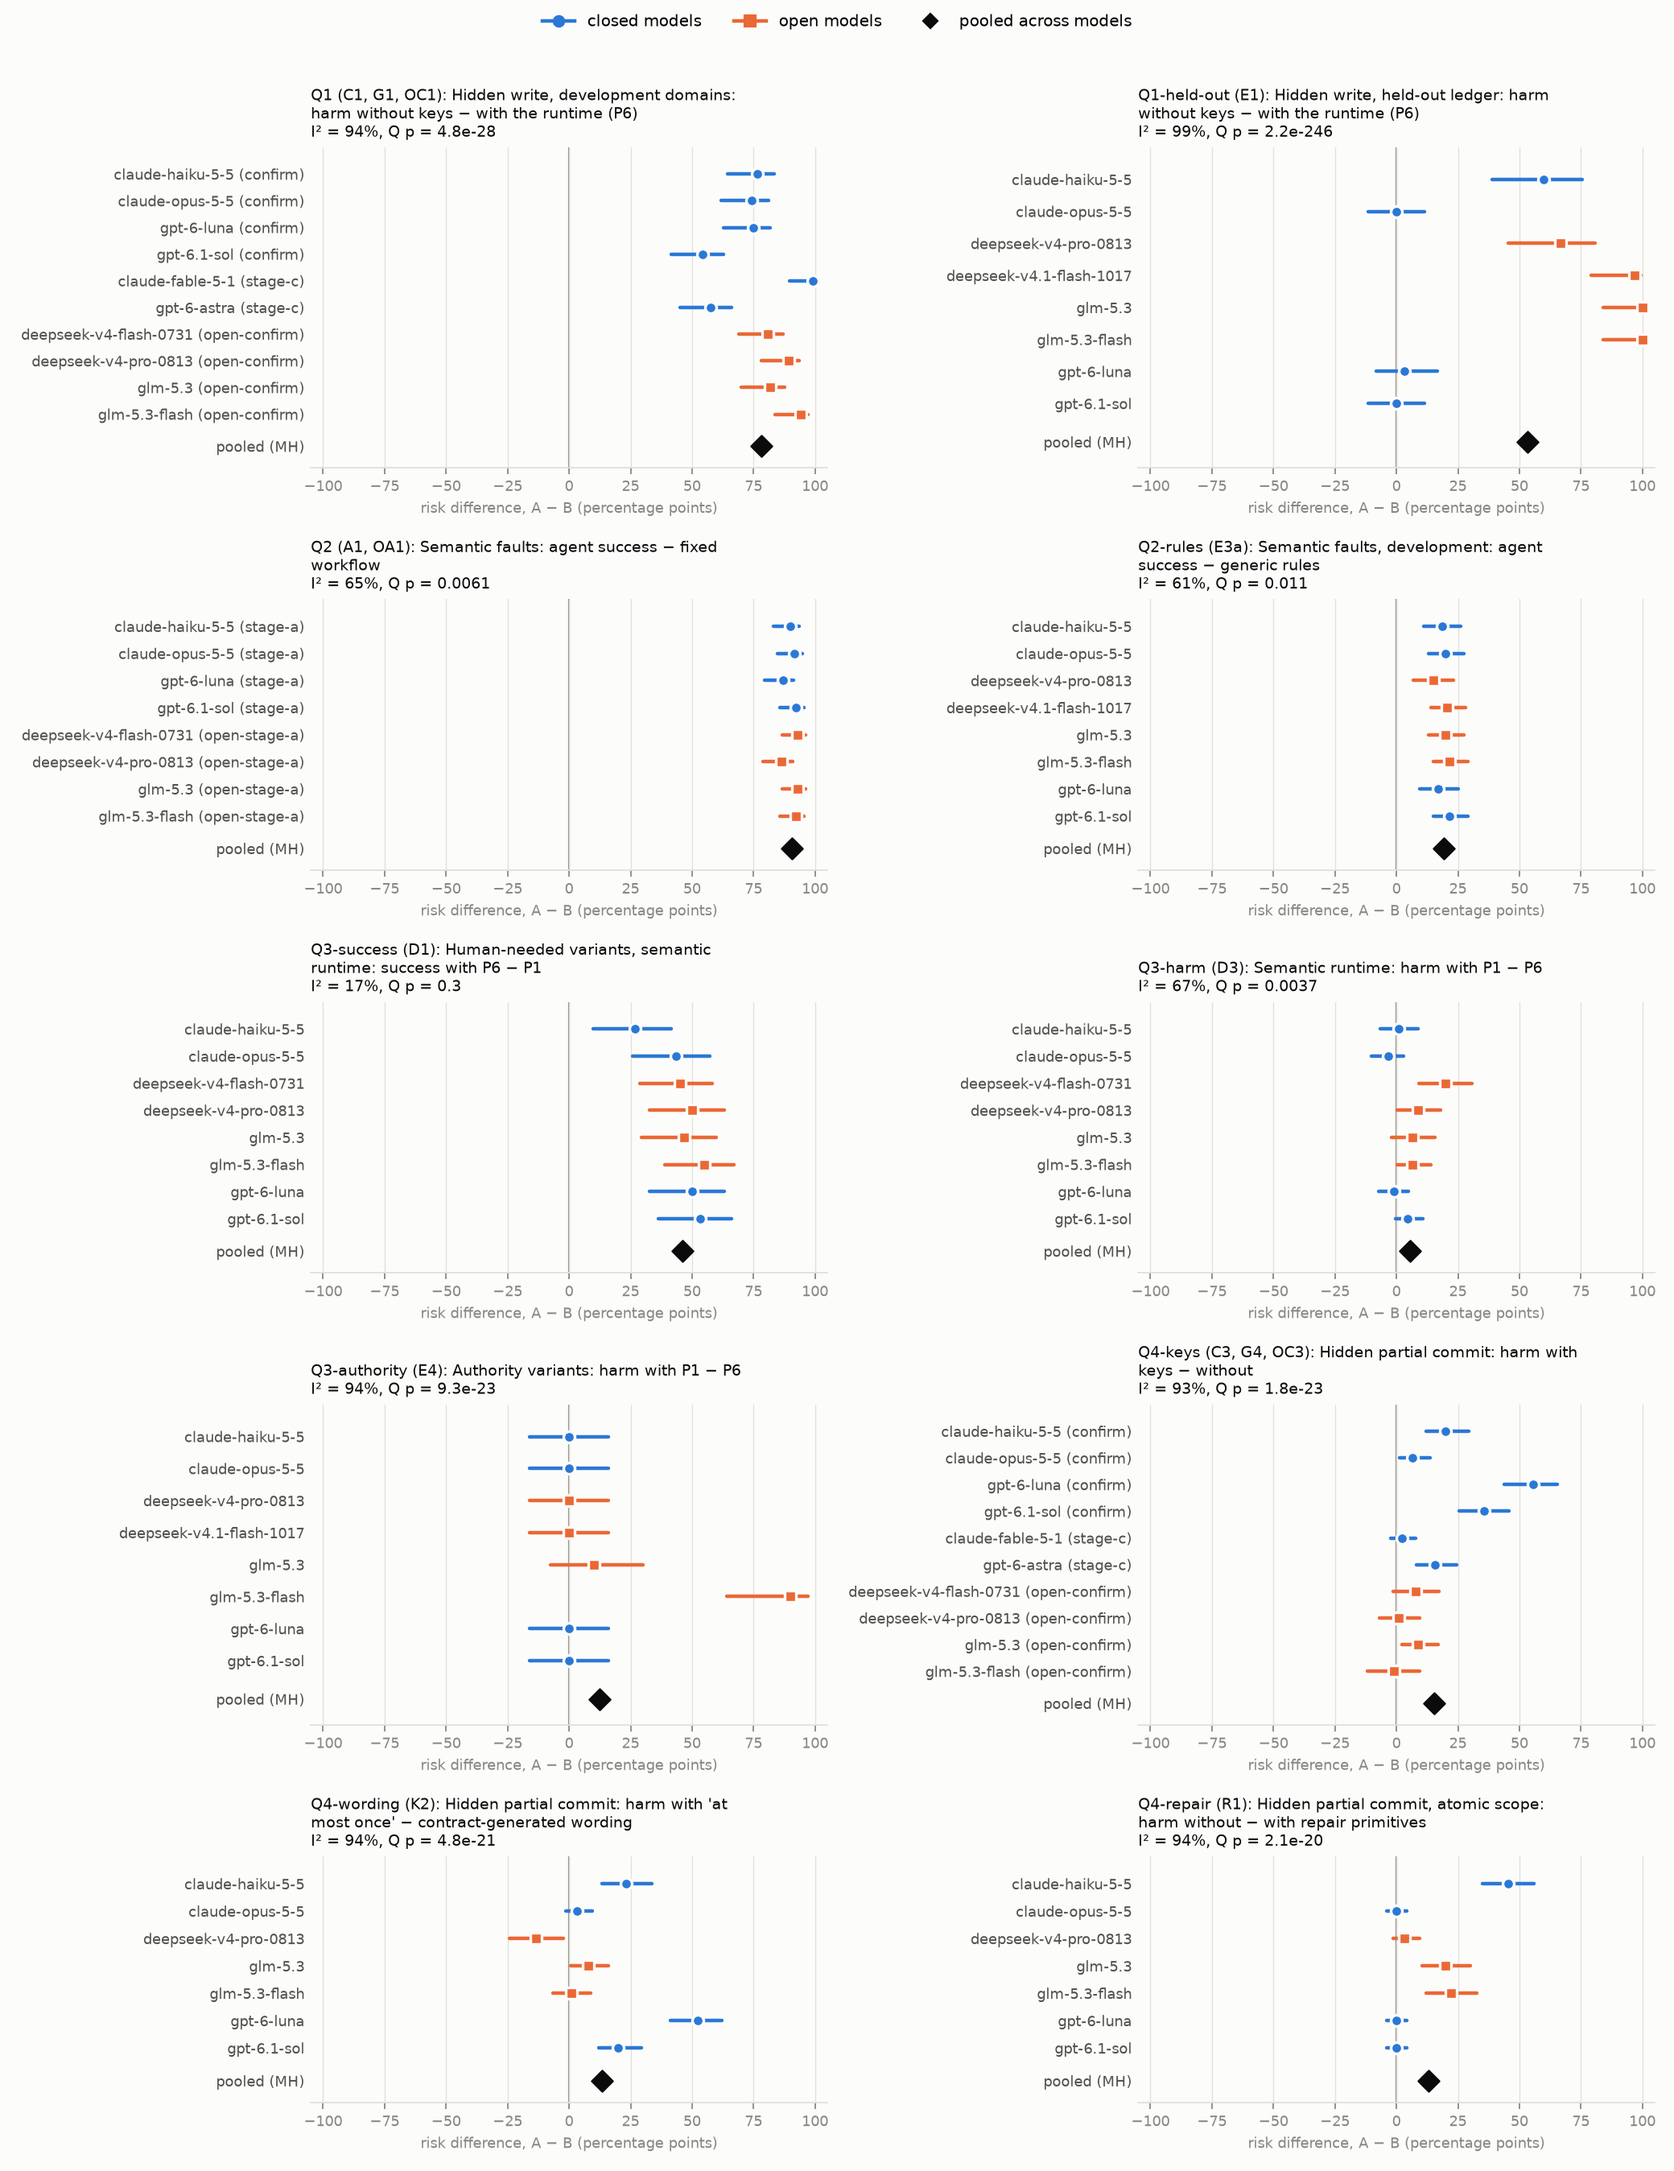
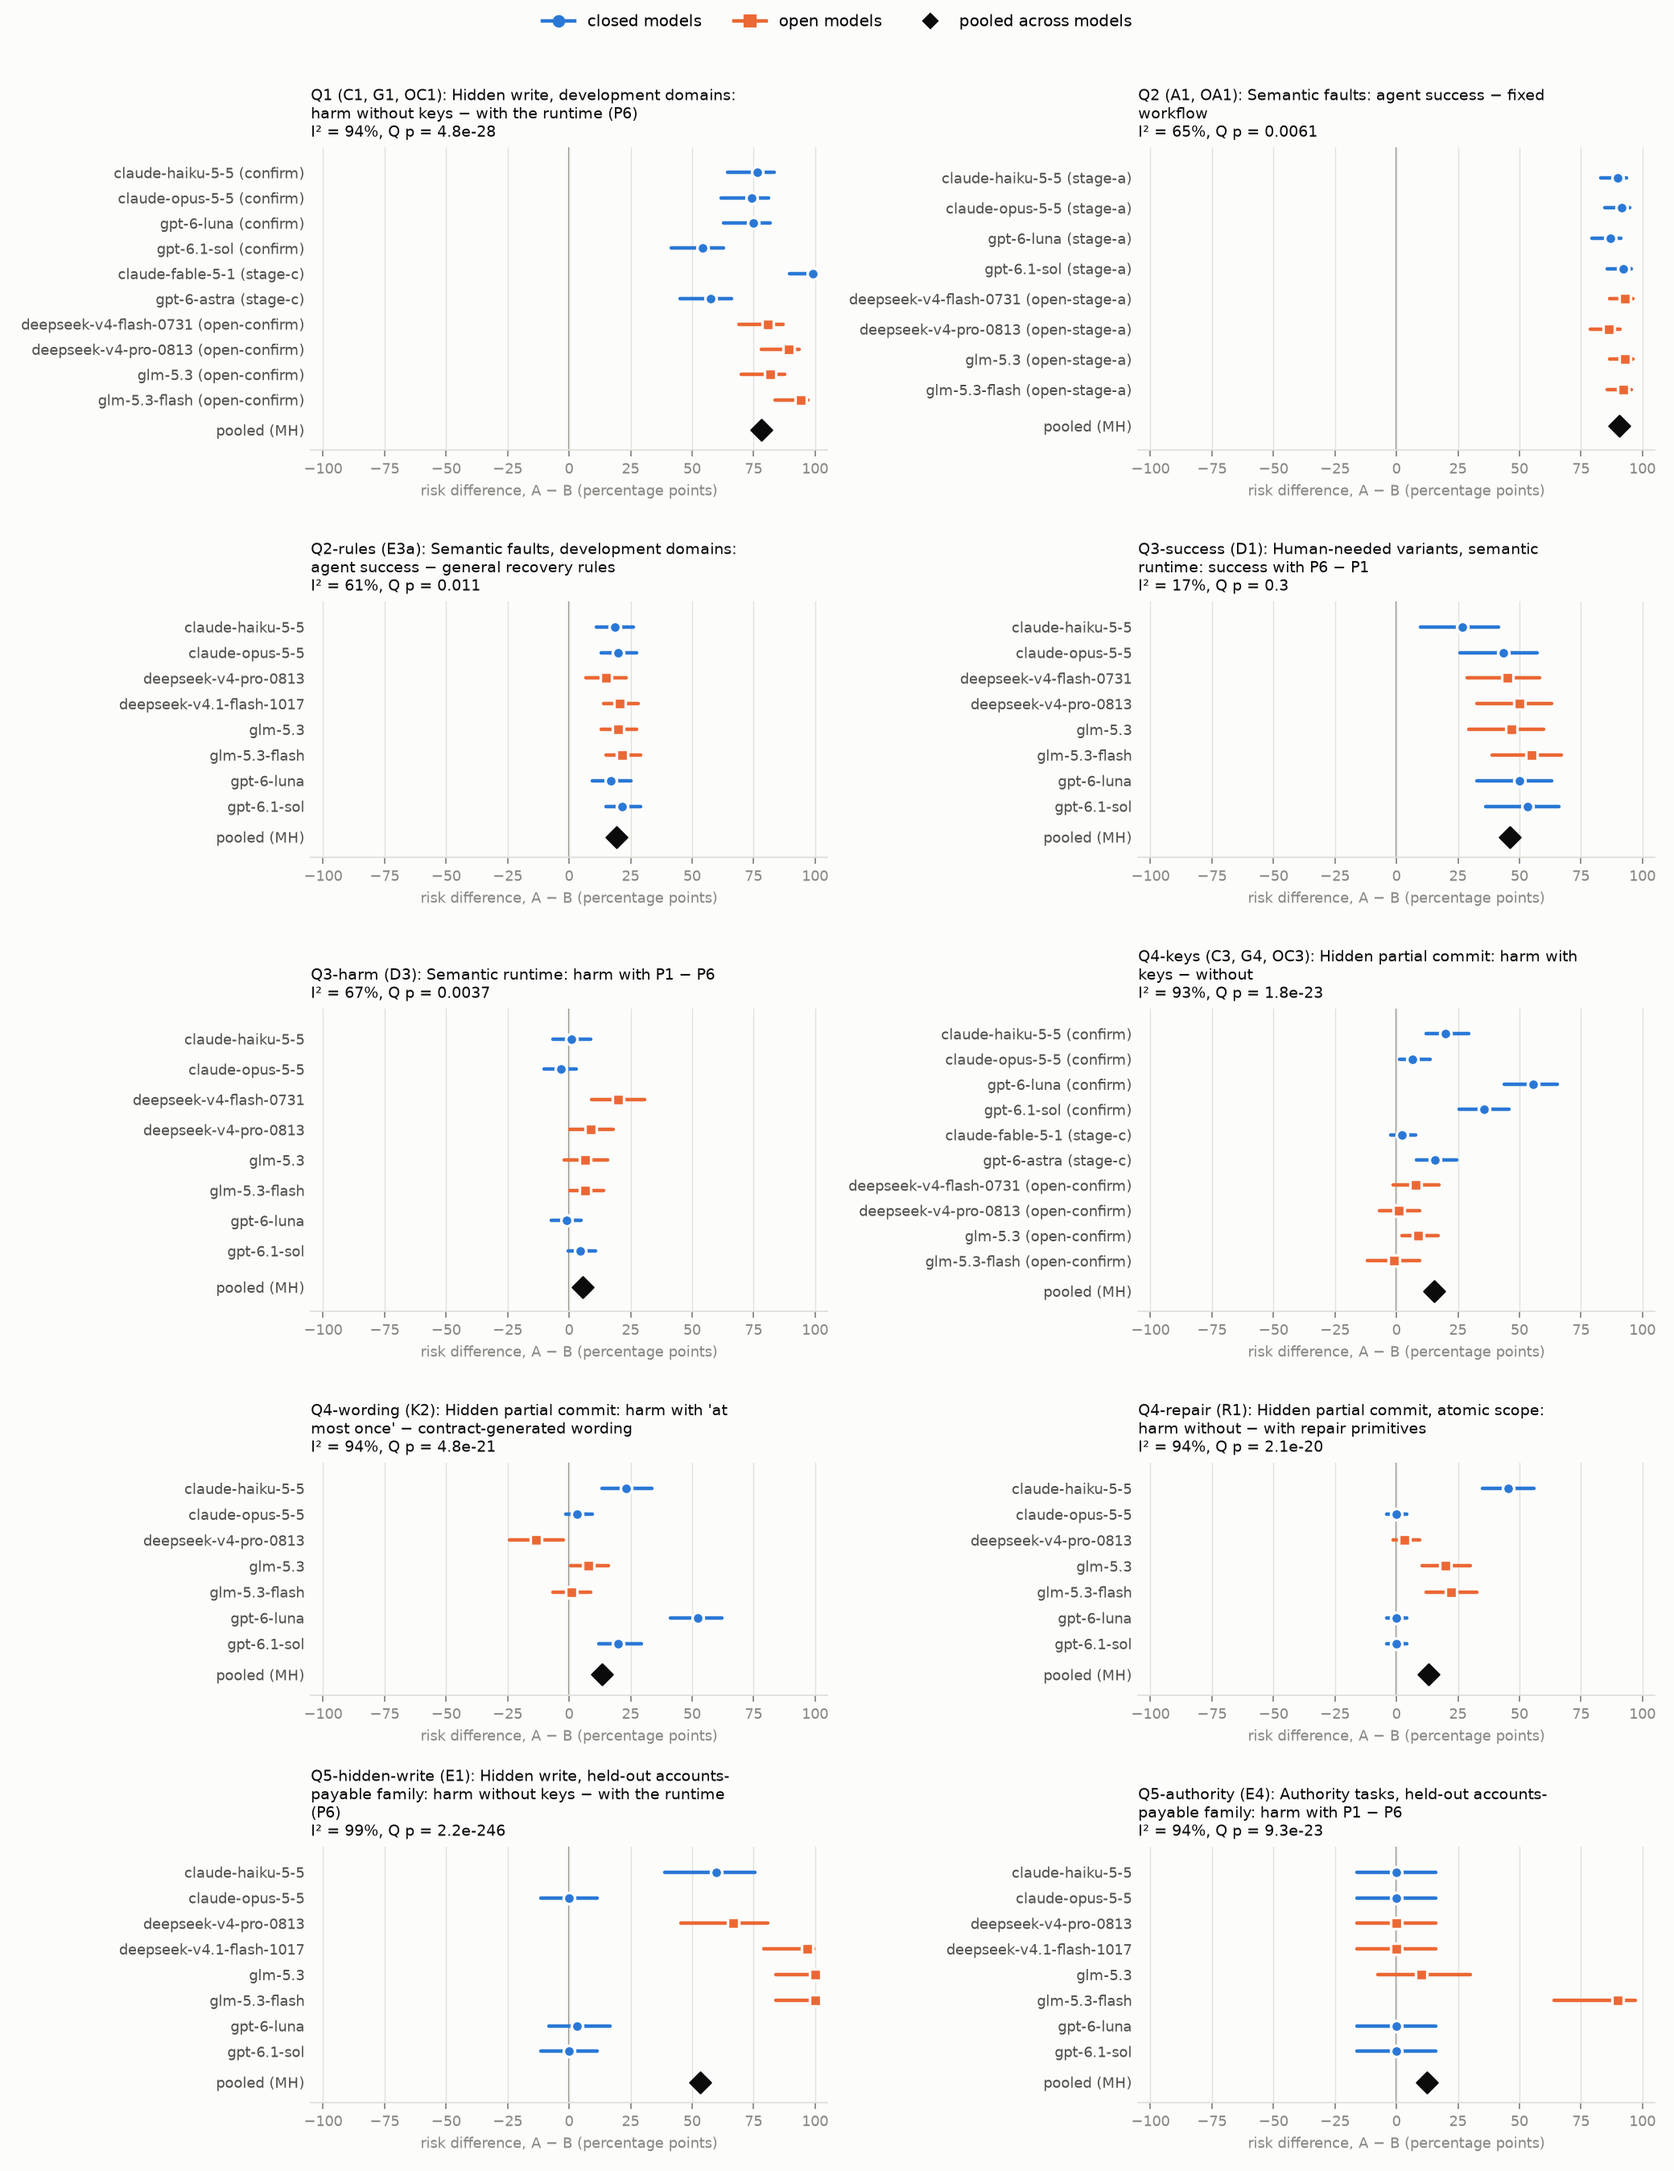
modified labels to match paper

diff --git a/analysis/heterogeneity.py b/analysis/heterogeneity.py
@@ -100,23 +100,18 @@ CLAIMS = [
      [("confirm", pol(NOKEY, TD), pol(P6, TD)),
       ("stage-c", pol(NOKEY, TD, frontier), pol(P6, TD, frontier)),
       ("open-confirm", pol(NOKEY, TD), pol(P6, TD))], harm, "C1, G1, OC1"),
-    ("Q1-held-out", "Q1/Q5", "Hidden write, held-out ledger: harm without keys − with the runtime (P6)",
-     [("stage-e", pol(NOKEY, TD, ledger), pol(P6, TD, ledger))], harm, "E1"),
     ("Q2", "Q2", "Semantic faults: agent success − fixed workflow",
      [("stage-a", pol("P1[runtime=semantic]", extra=lambda e: sem(e) and llm(e)),
        lambda e: sem(e) and e["agent"] == "scripted:workflow"),
       ("open-stage-a", pol("P1[runtime=semantic]", extra=lambda e: sem(e) and llm(e)),
        lambda e: sem(e) and e["agent"] == "scripted:workflow")], success, "A1, OA1"),
-    ("Q2-rules", "Q2", "Semantic faults, development: agent success − generic rules",
+    ("Q2-rules", "Q2", "Semantic faults, development domains: agent success − general recovery rules",
      [("stage-e", pol("P1", extra=lambda e: sem(e) and llm(e) and dev(e)),
        lambda e: sem(e) and dev(e) and e["agent"] == "scripted:rules_generic")], success, "E3a"),
     ("Q3-success", "Q3", "Human-needed variants, semantic runtime: success with P6 − P1",
      [("stage-d", rt(P6, "semantic", non_base), rt("P1", "semantic", non_base))], success, "D1"),
     ("Q3-harm", "Q3", "Semantic runtime: harm with P1 − P6",
      [("stage-d", rt("P1", "semantic"), rt(P6, "semantic"))], harm, "D3"),
-    ("Q3-authority", "Q3/Q5", "Authority variants: harm with P1 − P6",
-     [("stage-e", pol("P1", extra=lambda e: ledger(e) and e["variant"] == "authority"),
-       pol(P6, extra=lambda e: ledger(e) and e["variant"] == "authority"))], harm, "E4"),
     ("Q4-keys", "Q4", "Hidden partial commit: harm with keys − without",
      [("confirm", pol("P1", PT), pol(NOKEY, PT)),
       ("stage-c", pol("P1", PT, frontier), pol(NOKEY, PT, frontier)),
@@ -128,6 +123,12 @@ CLAIMS = [
      [("repair", contract("P1[key_description=contract]", "key_scope=atomic"),
        contract("P1[key_description=contract]", "key_scope=atomic,partial_report=True,repair=cancel_partial"))],
      harm, "R1"),
+    # Q5 (paper §7.5): the held-out accounts-payable family, written after the design was frozen.
+    ("Q5-hidden-write", "Q5", "Hidden write, held-out accounts-payable family: harm without keys − with the runtime (P6)",
+     [("stage-e", pol(NOKEY, TD, ledger), pol(P6, TD, ledger))], harm, "E1"),
+    ("Q5-authority", "Q5", "Authority tasks, held-out accounts-payable family: harm with P1 − P6",
+     [("stage-e", pol("P1", extra=lambda e: ledger(e) and e["variant"] == "authority"),
+       pol(P6, extra=lambda e: ledger(e) and e["variant"] == "authority"))], harm, "E4"),
 ]
 
 

diff --git a/analysis/latency_sensitivity.py b/analysis/latency_sensitivity.py
@@ -134,7 +134,7 @@ def main(run_dir: str = RUN, out_dir: str = "docs/latency") -> None:
     print("\n".join(out))
 
 
-def plot(real, models, allgaps, observed, path):
+def plot(real, models, allgaps, observed, path, title=True):
     import matplotlib
     matplotlib.use("Agg")
     import matplotlib.pyplot as plt
@@ -173,9 +173,10 @@ def plot(real, models, allgaps, observed, path):
         ax.spines[s].set_visible(False)
     for s in ("left", "bottom"):
         ax.spines[s].set_color(grid)
-    ax.set_title("Hidden write, no keys: harm depends on timing; the runtime doesn't\n"
-                 "lines: estimated from real-stack retry timing · markers: observed (simulator at 4.2 s, real at 6 s)",
-                 fontsize=10, color=ink, loc="left", pad=18)
+    if title:  # the paper's caption carries the title, so make_figures passes title=False
+        ax.set_title("Hidden write, no keys: harm depends on timing; the runtime doesn't\n"
+                     "lines: estimated from real-stack retry timing · markers: observed (simulator at 4.2 s, real at 6 s)",
+                     fontsize=10, color=ink, loc="left", pad=18)
     ax.legend(fontsize=8, frameon=False, loc="center right", bbox_to_anchor=(1.0, 0.42))
     fig.tight_layout()
     fig.savefig(path, dpi=160, facecolor=surface)

diff --git a/docs/heterogeneity/heterogeneity.md b/docs/heterogeneity/heterogeneity.md
@@ -11,15 +11,15 @@ Per model: arm A and arm B rates, and the risk difference A − B in percentage 
 | Claim | Source | Models | Pooled A − B | Range across models | Direction | CI > 0 | I² | Q p | Breslow–Day p |
 |---|---|---|---|---|---|---|---|---|---|
 | Q1: Hidden write, development domains: harm without keys − with the runtime (P6) | C1, G1, OC1 | 10 | +78 | +54 to +99 | 10 / 0 / 0 | 10/10 | 94% | 4.8e-28 | 0.83 |
-| Q1-held-out: Hidden write, held-out ledger: harm without keys − with the runtime (P6) | E1 | 8 | +53 | +0 to +100 | 6 / 2 / 0 | 5/8 | 99% | 2.2e-246 | 7.8e-08 |
 | Q2: Semantic faults: agent success − fixed workflow | A1, OA1 | 8 | +91 | +86 to +93 | 8 / 0 / 0 | 8/8 | 65% | 0.0061 | n/a (shared baseline) |
-| Q2-rules: Semantic faults, development: agent success − generic rules | E3a | 8 | +19 | +15 to +21 | 8 / 0 / 0 | 8/8 | 61% | 0.011 | n/a (shared baseline) |
+| Q2-rules: Semantic faults, development domains: agent success − general recovery rules | E3a | 8 | +19 | +15 to +21 | 8 / 0 / 0 | 8/8 | 61% | 0.011 | n/a (shared baseline) |
 | Q3-success: Human-needed variants, semantic runtime: success with P6 − P1 | D1 | 8 | +46 | +27 to +55 | 8 / 0 / 0 | 8/8 | 17% | 0.3 | 0.39 |
 | Q3-harm: Semantic runtime: harm with P1 − P6 | D3 | 8 | +5 | -3 to +20 | 6 / 0 / 2 | 3/8 | 67% | 0.0037 | 0.044 |
-| Q3-authority: Authority variants: harm with P1 − P6 | E4 | 8 | +12 | +0 to +90 | 2 / 6 / 0 | 1/8 | 94% | 9.3e-23 | 0.036 |
 | Q4-keys: Hidden partial commit: harm with keys − without | C3, G4, OC3 | 10 | +15 | -1 to +56 | 9 / 0 / 1 | 6/10 | 93% | 1.8e-23 | 3.1e-10 |
 | Q4-wording: Hidden partial commit: harm with 'at most once' − contract-generated wording | K2 | 7 | +13 | -13 to +52 | 6 / 0 / 1 | 4/7 | 94% | 4.8e-21 | 1.8e-13 |
 | Q4-repair: Hidden partial commit, atomic scope: harm without − with repair primitives | R1 | 7 | +13 | +0 to +46 | 4 / 3 / 0 | 3/7 | 94% | 2.1e-20 | 0.038 |
+| Q5-hidden-write: Hidden write, held-out accounts-payable family: harm without keys − with the runtime (P6) | E1 | 8 | +53 | +0 to +100 | 6 / 2 / 0 | 5/8 | 99% | 2.2e-246 | 7.8e-08 |
+| Q5-authority: Authority tasks, held-out accounts-payable family: harm with P1 − P6 | E4 | 8 | +12 | +0 to +90 | 2 / 6 / 0 | 1/8 | 94% | 9.3e-23 | 0.036 |
 
 ## Per model
 
@@ -40,21 +40,6 @@ Registered source: C1, G1, OC1.
 | glm-5.3 (open-confirm) | open | 98/120 (82%) | 0/40 (0%) | +82 (+70 to +88) |
 | glm-5.3-flash (open-confirm) | open | 113/120 (94%) | 0/40 (0%) | +94 (+84 to +97) |
 
-### Q1-held-out: Hidden write, held-out ledger: harm without keys − with the runtime (P6)
-
-Registered source: E1.
-
-| Model | Family | A | B | A − B (95% CI) |
-|---|---|---|---|---|
-| claude-haiku-5-5 | closed | 18/30 (60%) | 0/30 (0%) | +60 (+39 to +75) |
-| claude-opus-5-5 | closed | 0/30 (0%) | 0/30 (0%) | +0 (-11 to +11) |
-| deepseek-v4-pro-0813 | open | 20/30 (67%) | 0/30 (0%) | +67 (+45 to +81) |
-| deepseek-v4.1-flash-1017 | open | 29/30 (97%) | 0/30 (0%) | +97 (+79 to +99) |
-| glm-5.3 | open | 30/30 (100%) | 0/30 (0%) | +100 (+84 to +100) |
-| glm-5.3-flash | open | 30/30 (100%) | 0/30 (0%) | +100 (+84 to +100) |
-| gpt-6-luna | closed | 1/30 (3%) | 0/30 (0%) | +3 (-8 to +17) |
-| gpt-6.1-sol | closed | 0/30 (0%) | 0/30 (0%) | +0 (-11 to +11) |
-
 ### Q2: Semantic faults: agent success − fixed workflow
 
 Registered source: A1, OA1. Arm B is a deterministic engine; each model is compared with its pooled rate.
@@ -70,7 +55,7 @@ Registered source: A1, OA1. Arm B is a deterministic engine; each model is compa
 | glm-5.3 (open-stage-a) | open | 140/140 (100%) | 10/140 (7%) | +93 (+87 to +96) |
 | glm-5.3-flash (open-stage-a) | open | 139/140 (99%) | 10/140 (7%) | +92 (+86 to +95) |
 
-### Q2-rules: Semantic faults, development: agent success − generic rules
+### Q2-rules: Semantic faults, development domains: agent success − general recovery rules
 
 Registered source: E3a. Arm B is a deterministic engine; each model is compared with its pooled rate.
 
@@ -114,21 +99,6 @@ Registered source: D3.
 | glm-5.3-flash | open | 7/90 (8%) | 1/90 (1%) | +7 (+0 to +14) |
 | gpt-6-luna | closed | 2/90 (2%) | 3/90 (3%) | -1 (-7 to +5) |
 | gpt-6.1-sol | closed | 4/90 (4%) | 0/90 (0%) | +4 (-0 to +11) |
-
-### Q3-authority: Authority variants: harm with P1 − P6
-
-Registered source: E4.
-
-| Model | Family | A | B | A − B (95% CI) |
-|---|---|---|---|---|
-| claude-haiku-5-5 | closed | 0/20 (0%) | 0/20 (0%) | +0 (-16 to +16) |
-| claude-opus-5-5 | closed | 0/20 (0%) | 0/20 (0%) | +0 (-16 to +16) |
-| deepseek-v4-pro-0813 | open | 0/20 (0%) | 0/20 (0%) | +0 (-16 to +16) |
-| deepseek-v4.1-flash-1017 | open | 0/20 (0%) | 0/20 (0%) | +0 (-16 to +16) |
-| glm-5.3 | open | 2/20 (10%) | 0/20 (0%) | +10 (-8 to +30) |
-| glm-5.3-flash | open | 18/20 (90%) | 0/20 (0%) | +90 (+64 to +97) |
-| gpt-6-luna | closed | 0/20 (0%) | 0/20 (0%) | +0 (-16 to +16) |
-| gpt-6.1-sol | closed | 0/20 (0%) | 0/20 (0%) | +0 (-16 to +16) |
 
 ### Q4-keys: Hidden partial commit: harm with keys − without
 
@@ -174,3 +144,33 @@ Registered source: R1.
 | glm-5.3-flash | open | 24/90 (27%) | 4/90 (4%) | +22 (+12 to +33) |
 | gpt-6-luna | closed | 0/90 (0%) | 0/90 (0%) | +0 (-4 to +4) |
 | gpt-6.1-sol | closed | 0/90 (0%) | 0/90 (0%) | +0 (-4 to +4) |
+
+### Q5-hidden-write: Hidden write, held-out accounts-payable family: harm without keys − with the runtime (P6)
+
+Registered source: E1.
+
+| Model | Family | A | B | A − B (95% CI) |
+|---|---|---|---|---|
+| claude-haiku-5-5 | closed | 18/30 (60%) | 0/30 (0%) | +60 (+39 to +75) |
+| claude-opus-5-5 | closed | 0/30 (0%) | 0/30 (0%) | +0 (-11 to +11) |
+| deepseek-v4-pro-0813 | open | 20/30 (67%) | 0/30 (0%) | +67 (+45 to +81) |
+| deepseek-v4.1-flash-1017 | open | 29/30 (97%) | 0/30 (0%) | +97 (+79 to +99) |
+| glm-5.3 | open | 30/30 (100%) | 0/30 (0%) | +100 (+84 to +100) |
+| glm-5.3-flash | open | 30/30 (100%) | 0/30 (0%) | +100 (+84 to +100) |
+| gpt-6-luna | closed | 1/30 (3%) | 0/30 (0%) | +3 (-8 to +17) |
+| gpt-6.1-sol | closed | 0/30 (0%) | 0/30 (0%) | +0 (-11 to +11) |
+
+### Q5-authority: Authority tasks, held-out accounts-payable family: harm with P1 − P6
+
+Registered source: E4.
+
+| Model | Family | A | B | A − B (95% CI) |
+|---|---|---|---|---|
+| claude-haiku-5-5 | closed | 0/20 (0%) | 0/20 (0%) | +0 (-16 to +16) |
+| claude-opus-5-5 | closed | 0/20 (0%) | 0/20 (0%) | +0 (-16 to +16) |
+| deepseek-v4-pro-0813 | open | 0/20 (0%) | 0/20 (0%) | +0 (-16 to +16) |
+| deepseek-v4.1-flash-1017 | open | 0/20 (0%) | 0/20 (0%) | +0 (-16 to +16) |
+| glm-5.3 | open | 2/20 (10%) | 0/20 (0%) | +10 (-8 to +30) |
+| glm-5.3-flash | open | 18/20 (90%) | 0/20 (0%) | +90 (+64 to +97) |
+| gpt-6-luna | closed | 0/20 (0%) | 0/20 (0%) | +0 (-16 to +16) |
+| gpt-6.1-sol | closed | 0/20 (0%) | 0/20 (0%) | +0 (-16 to +16) |
